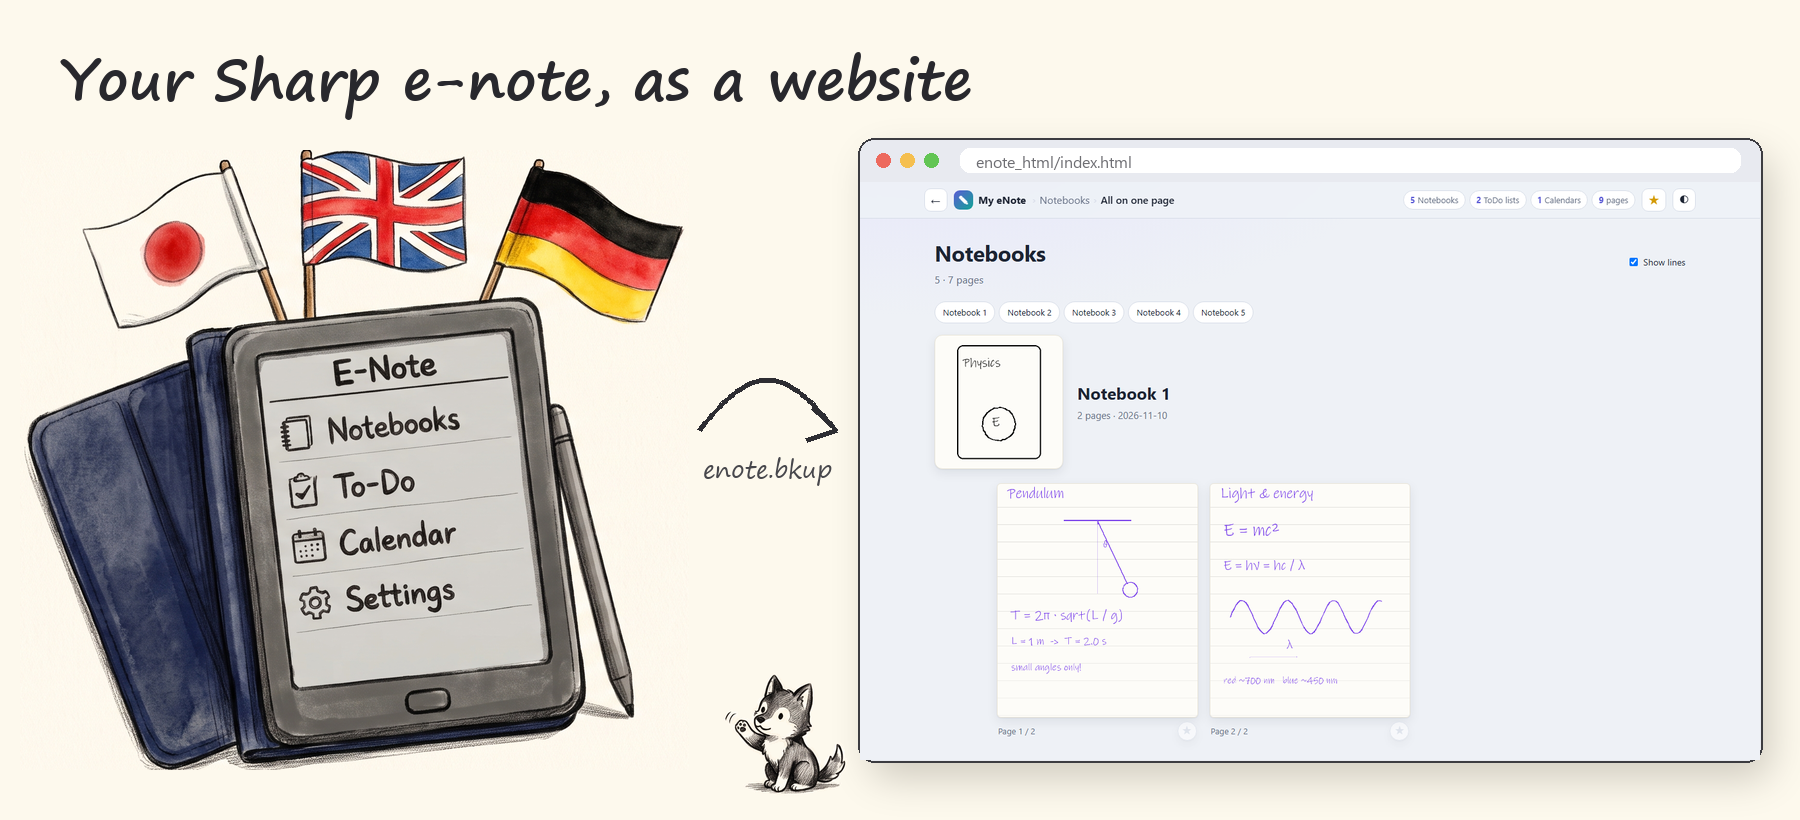
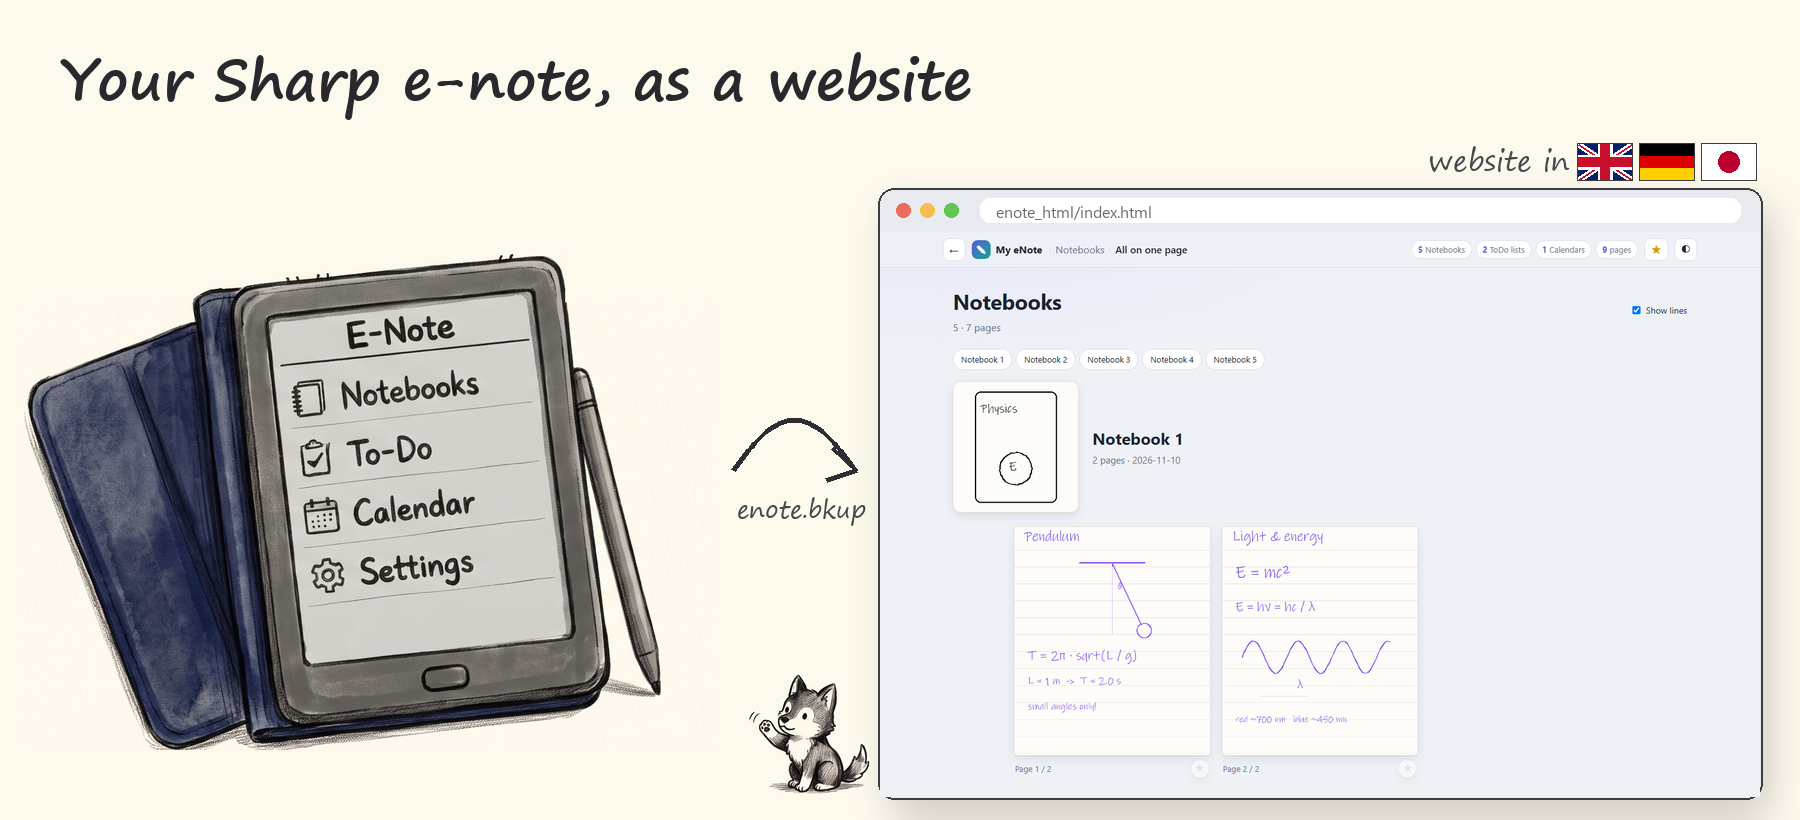
README: hero without flags on the device (website languages instead), story wording

diff --git a/README.md b/README.md
@@ -11,11 +11,11 @@ Runs on your own computer, nothing is uploaded. Interface in **English · Deutsc
 
 ## Why this exists
 
-My first e-note, a **WG-S20**, was a present from a physics professor from Italy who lives in Yokohama.
-I loved it so much that I bought a **WG-PN1** and filled dozens of notebooks, ToDo lists and calendars
-until recently. Sharp's own utility can only export single pages, so I extended
-[Aleksejs Popovs' chicraccoon](https://github.com/aleksejspopovs/chicraccoon) until all of it was
-readable, printable and safe on my computer.
+My first e-note, a **WG-S20**, was a present from a great physics professor from Italy who lives in
+Yokohama. I liked it a lot, bought a **WG-PN1** and filled notebooks and more. Sharp's own utility was
+limited; [Aleksejs Popovs' chicraccoon](https://github.com/aleksejspopovs/chicraccoon) already had most
+of it, but didn't work with the PN1. I fixed that and added a few UI improvements here and there
+(marking favourites, printing, PDFs, three languages, …).
 
 ## Quick start
 
